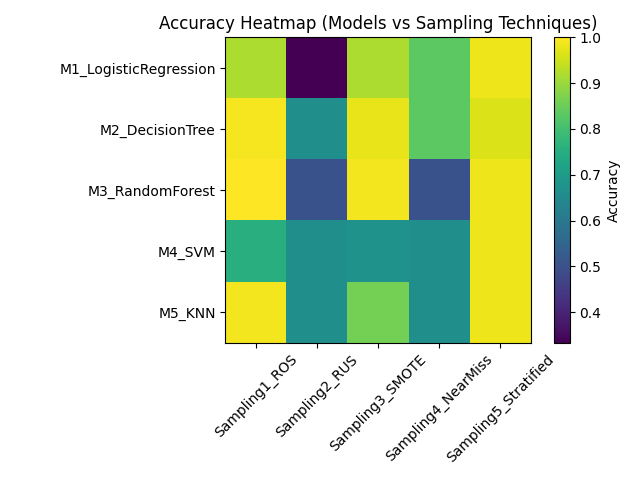
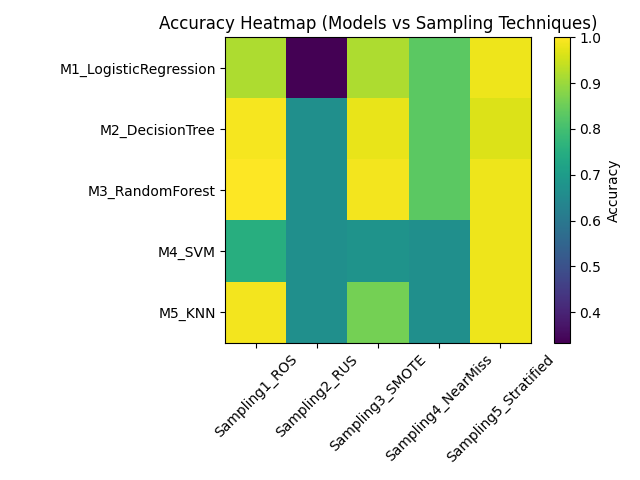
Regularize Random Forest to avoid overfitting

Changed region(s): [[0.625, 0.3125, 0.75, 0.4688], [0.4375, 0.3125, 0.5625, 0.4688]]

diff --git a/src/sampling_assignment.py b/src/sampling_assignment.py
@@ -60,7 +60,12 @@ from sklearn.model_selection import train_test_split
 models = {
     "M1_LogisticRegression": LogisticRegression(max_iter=1000),
     "M2_DecisionTree": DecisionTreeClassifier(random_state=42),
-    "M3_RandomForest": RandomForestClassifier(random_state=42),
+     "M3_RandomForest": RandomForestClassifier(
+    n_estimators=100,
+    max_depth=10,
+    min_samples_leaf=5,
+    random_state=42
+),
     "M4_SVM": SVC(),
     "M5_KNN": KNeighborsClassifier()
 }
